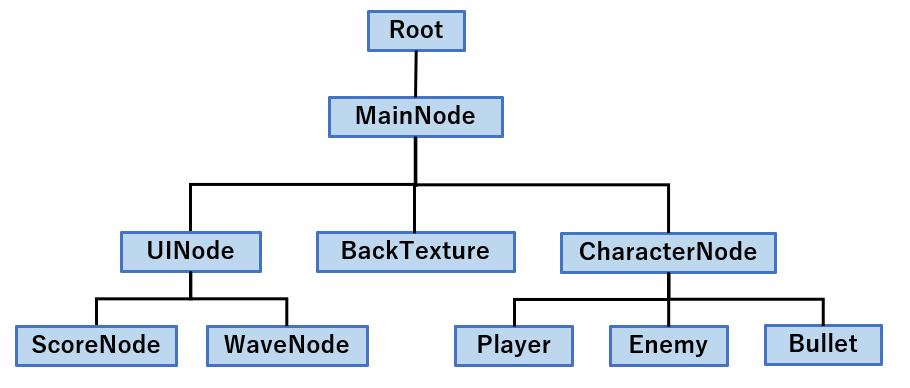
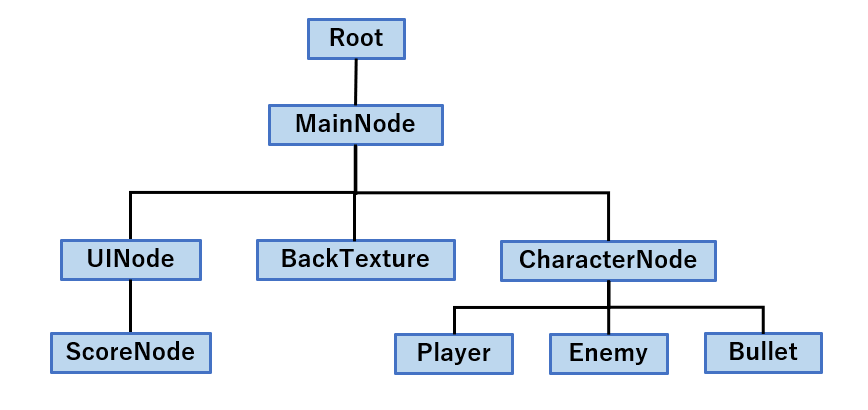
fix chap.09-codes

Changed region(s): [[0.0, 0.0, 0.9954, 0.9588]]

diff --git a/Tutorials/Chap9/Spl7.cs b/Tutorials/Chap9/Spl7.cs
@@ -15,20 +15,14 @@ namespace Tutorial
             if (count % 100 == 0)
             {
                 // 敵が残っていたら画面に追加
-                if (enemies[wave - 1].Count > 0)
+                if (enemies.Count > 0)
                 {
-                    characterNode.AddChildNode(enemies[wave - 1].Dequeue());
+                    characterNode.AddChildNode(enemies.Dequeue());
                 }
                 else
                 {
-                    // カウントをリセット
-                    count = 0;
-
-                    //ウェーブを次に進める
-                    wave++;
-
-+                   // もし最終ウェーブが終わっていて，かつ画面遷移中でなければ実行
-+                   if (wave > waves && !fading)
++                   // もし画面遷移中でなければ実行
++                   if (!fading)
 +                   {
 +                       // BGMをフェードアウト
 +                       if (bgmID.HasValue)

diff --git a/Tutorials/Chap9/Spl4.cs b/Tutorials/Chap9/Spl4.cs
@@ -8,8 +8,8 @@ namespace Tutorial
     {
         ...略...
 
-        // 現在ウェーブを表示するノード
-        private TextNode waveNode;
+        // スコアを表示するノード
+        private TextNode scoreNode;
 
 +       // 他画面へ遷移しているかどうか
 +       private bool fading = false;
